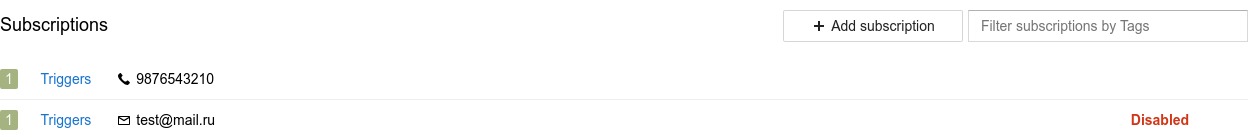
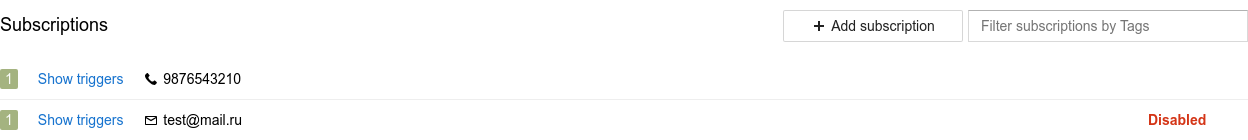
wider description

Changed region(s): [[0.0312, 0.8, 0.2188, 0.9143], [0.0312, 0.5143, 0.2188, 0.6286], [0.9062, 0.8, 0.9688, 0.9143]]

diff --git a/src/Components/SubscriptionList/SubscriptionRow/SubscriptionRow.tsx b/src/Components/SubscriptionList/SubscriptionRow/SubscriptionRow.tsx
@@ -6,7 +6,6 @@ import ContactInfo from "../../ContactInfo/ContactInfo";
 import TagGroup from "../../TagGroup/TagGroup";
 import HelpTooltip from "../../HelpTooltip/HelpTooltip";
 import queryString from "query-string";
-
 import classNames from "classnames/bind";
 
 import styles from "./SubscriptionRow.less";
@@ -31,16 +30,12 @@ export const SubscriptionRow: React.FC<SubscriptionRowProps> = ({
 
     const areAnyDisruptedSubs = getSubscriptionContacts.length === 0;
 
-    const handleGetTriggers = (e: React.MouseEvent<HTMLAnchorElement>, tags: string[]) => {
-        e.stopPropagation();
-        const params = `/?${queryString.stringify(
-            { tags: tags },
-            {
-                arrayFormat: "index",
-            }
-        )}`;
-        window.open(`${params}`, "_blank");
-    };
+    const triggersPageParams = `/?${queryString.stringify(
+        { tags: subscription.tags },
+        {
+            arrayFormat: "index",
+        }
+    )}`;
 
     return (
         <tr
@@ -51,9 +46,15 @@ export const SubscriptionRow: React.FC<SubscriptionRowProps> = ({
             <td className={cn("tags-cell")}>
                 <TagGroup tags={subscription.tags} />
             </td>
-            <td>
+            <td className={cn("triggers-cell")}>
                 <Hint text="Show all associated triggers">
-                    <Link onClick={(e) => handleGetTriggers(e, subscription.tags)}>Triggers</Link>
+                    <Link
+                        target="_blank"
+                        href={triggersPageParams}
+                        onClick={(e) => e.stopPropagation()}
+                    >
+                        Show triggers
+                    </Link>
                 </Hint>
             </td>
             <td className={cn("contacts-cell")}>

diff --git a/src/Components/SubscriptionList/SubscriptionRow/SubscriptionRow.less b/src/Components/SubscriptionList/SubscriptionRow/SubscriptionRow.less
@@ -32,6 +32,11 @@
     max-width: 350px;
 }
 
+.triggers-cell {
+    display: inline-block;
+    min-width: max-content;
+}
+
 .contacts-cell {
     width: 80%;
 }
